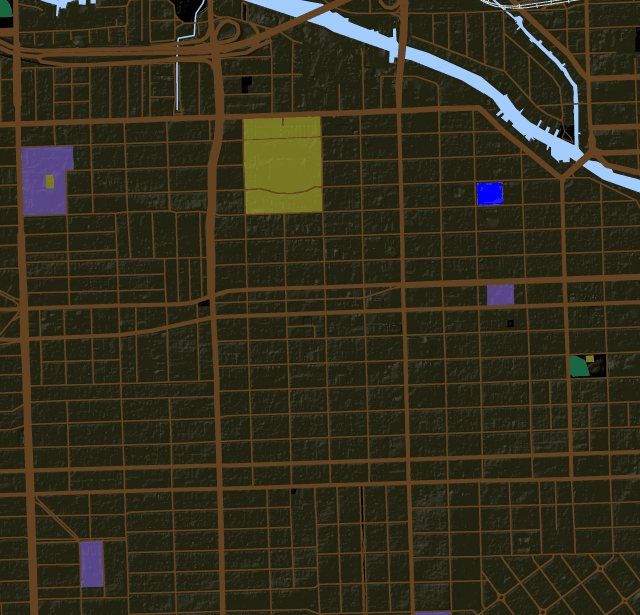
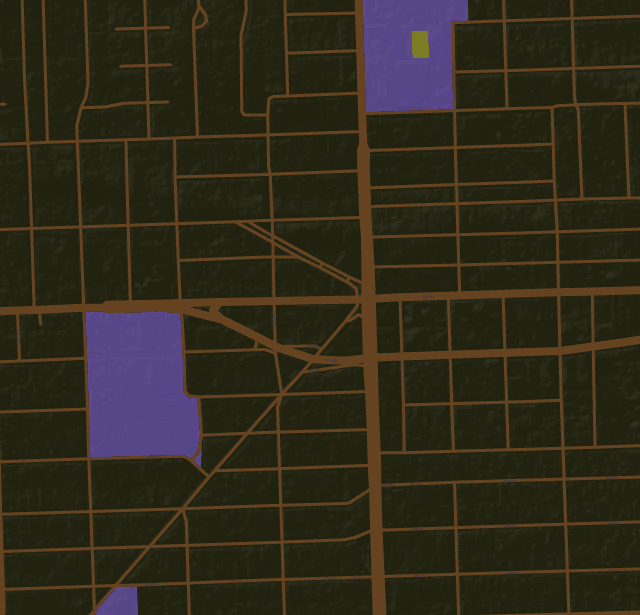
Added feature to get the nearby map given whether to load one of six directions from previous location and previous location

diff --git a/MapRenderer.py b/MapRenderer.py
@@ -20,11 +20,54 @@ key = open('config.txt').read()
 def map_render(location, orientation):
     lat  = location['latitude']
     lon = location['longitude']
-    URL = "https://maps.googleapis.com/maps/api/staticmap?center=%f,%f&zoom=15&size=640x640&maptype=terrain&style=feature:landscape.man_made|color:0x222211&style=feature:all|element:labels|visibility:off&style=feature:road|color:0x654321&style=feature:poi.business|color:0x186842&style=feature:poi.attraction|color:0xff0000&style=feature:poi.government|color:0x00ff00&style=feature:poi.medical|color:0x0000ff&style=feature:poi.park|color:0x000000&style=feature:poi.place_of_worship|color:0x631355&style=feature:poi.school|color:0x584788&style=feature:poi.sports_complex|color:0x797923&key=%s" % (lat, lon, key)
+    URL = "https://maps.googleapis.com/maps/api/staticmap?center=%f,%f&zoom=16&size=640x640&maptype=terrain&style=feature:landscape.man_made|color:0x222211&style=feature:all|element:labels|visibility:off&style=feature:road|color:0x654321&style=feature:poi.business|color:0x186842&style=feature:poi.attraction|color:0xff0000&style=feature:poi.government|color:0x00ff00&style=feature:poi.medical|color:0x0000ff&style=feature:poi.park|color:0x000000&style=feature:poi.place_of_worship|color:0x631355&style=feature:poi.school|color:0x584788&style=feature:poi.sports_complex|color:0x797923&key=%s" % (lat, lon, key)
     response = requests.get(URL)
     print URL
     img = Image.open(StringIO(response.content))
     img = img.crop((0,0,640,615)).rotate( orientation, expand=1 )
+    img.save("map.png")
+
+def update_map(where , prev):
+    add_lon = 0
+    add_lat = 0
+    if where == "top":
+        add_lat = calc_distance_degrees(615,16)
+    elif where == "bottom":
+        add_lat = calc_distance_degrees(615,16) * -1
+    elif where == "left":
+        add_lon = calc_distance_degrees(640,16) * -1
+    elif where == "right":
+        add_lon = calc_distance_degrees(640,16)
+    elif where == "top-right":
+        add_lat = calc_distance_degrees(615,16)
+        add_lon = calc_distance_degrees(640,16)
+    elif where == "top-left":
+        add_lat = calc_distance_degrees(615,16)
+        add_lon = calc_distance_degrees(640,16) * -1
+    elif where == "bottom-left":
+        add_lat = calc_distance_degrees(615,16) * -1
+        add_lon = calc_distance_degrees(640,16) * -1
+    elif where == "bottom-right":
+        add_lat = calc_distance_degrees(615,16) * -1
+        add_lon = calc_distance_degrees(640,16) * -1
+    map_render2({'latitude': (prev['latitude'] + add_lat),'longitude': (prev['longitude'] + add_lon)})
+
+def map_render2(location):
+    lat  = location['latitude']
+    lon = location['longitude']
+    URL = "https://maps.googleapis.com/maps/api/staticmap?center=%f,%f&zoom=16&size=640x640&maptype=terrain&style=feature:landscape.man_made|color:0x222211&style=feature:all|element:labels|visibility:off&style=feature:road|color:0x654321&style=feature:poi.business|color:0x186842&style=feature:poi.attraction|color:0xff0000&style=feature:poi.government|color:0x00ff00&style=feature:poi.medical|color:0x0000ff&style=feature:poi.park|color:0x000000&style=feature:poi.place_of_worship|color:0x631355&style=feature:poi.school|color:0x584788&style=feature:poi.sports_complex|color:0x797923&key=%s" % (lat, lon, key)
+    response = requests.get(URL)
+    print URL
+    img = Image.open(StringIO(response.content))
+    img = img.crop((0,0,640,615))
     img.save("map2.png")
 
-map_render({'latitude': 25.7721638,'longitude': -80.2182310}, 0)
+def calc_distance_degrees(distance,zoom):
+    print (1.0*distance/256)*(360.0 / 2**zoom)
+    return (1.0*distance/256)*(360.0 / 2**zoom)
+
+
+loc = {'latitude': 25.7721638,'longitude': -80.2182310}
+map_render(loc, 0)
+#map_render2({'latitude': (25.7721638),'longitude': (-80.2182310 - calc_distance_degrees(640,16))}, 0)
+update_map("left", loc)
